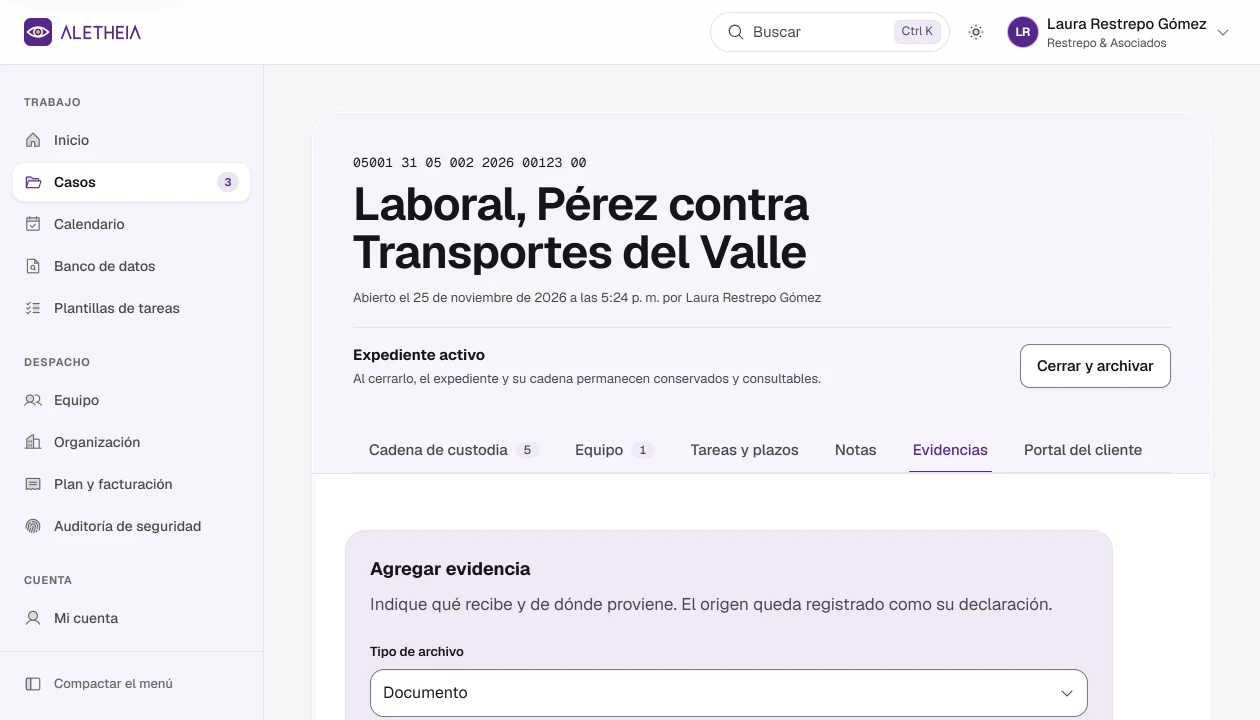
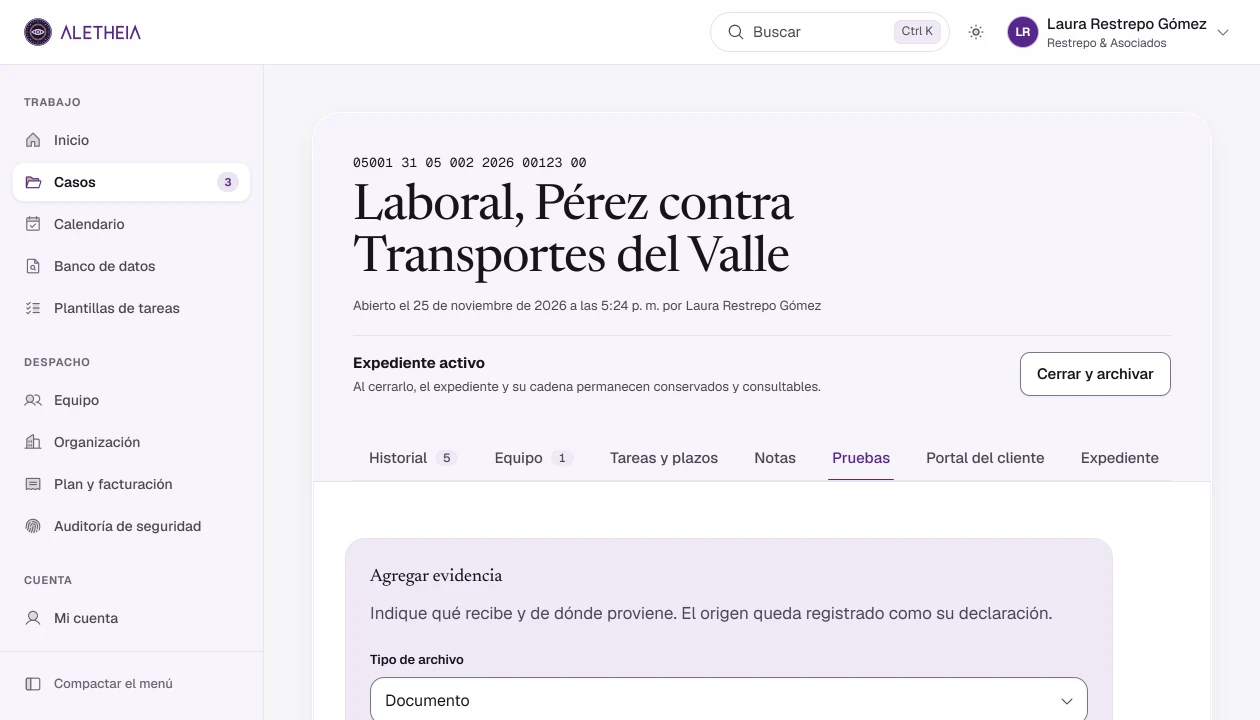
feat: todos los títulos del espacio de trabajo en serif y capturas del producto nuevas
Una regla en el contenedor principal pone en Newsreader cada h1 y h2 del espacio de trabajo,
así ninguna pantalla queda con otra voz. Las siete capturas del producto se rehicieron con la
bienvenida con foto, las cifras en serif y las pestañas renombradas, en 640, 1260 y 2520 px.

diff --git a/frontend/src/layouts/AppShell.module.css b/frontend/src/layouts/AppShell.module.css
@@ -174,6 +174,13 @@
 
 /* El contenido ocupa al menos una pantalla: el pie queda siempre debajo del pliegue, así no
    salta cuando la vista termina de cargar (CLS). */
+/* Todos los títulos del espacio de trabajo hablan con la serif de la marca, como la portada y el
+   comprobante. Especificidad cero: un componente puede ajustar el peso o el tamaño. */
+.main :where(h1, h2) {
+  font-family: var(--font-editorial);
+  font-weight: 450;
+}
+
 .main {
   flex: 1;
   width: 100%;

diff --git a/frontend/src/pages/CasePage.module.css b/frontend/src/pages/CasePage.module.css
@@ -70,8 +70,8 @@
 .title {
   margin: var(--space-2) 0 var(--space-3);
   color: var(--text);
-  font-size: clamp(32px, 4vw, 46px);
-  font-weight: 650;
+  font-size: clamp(34px, 4vw, 50px);
+  font-weight: 440;
   letter-spacing: -0.018em;
   line-height: 1.04;
   overflow-wrap: anywhere;
